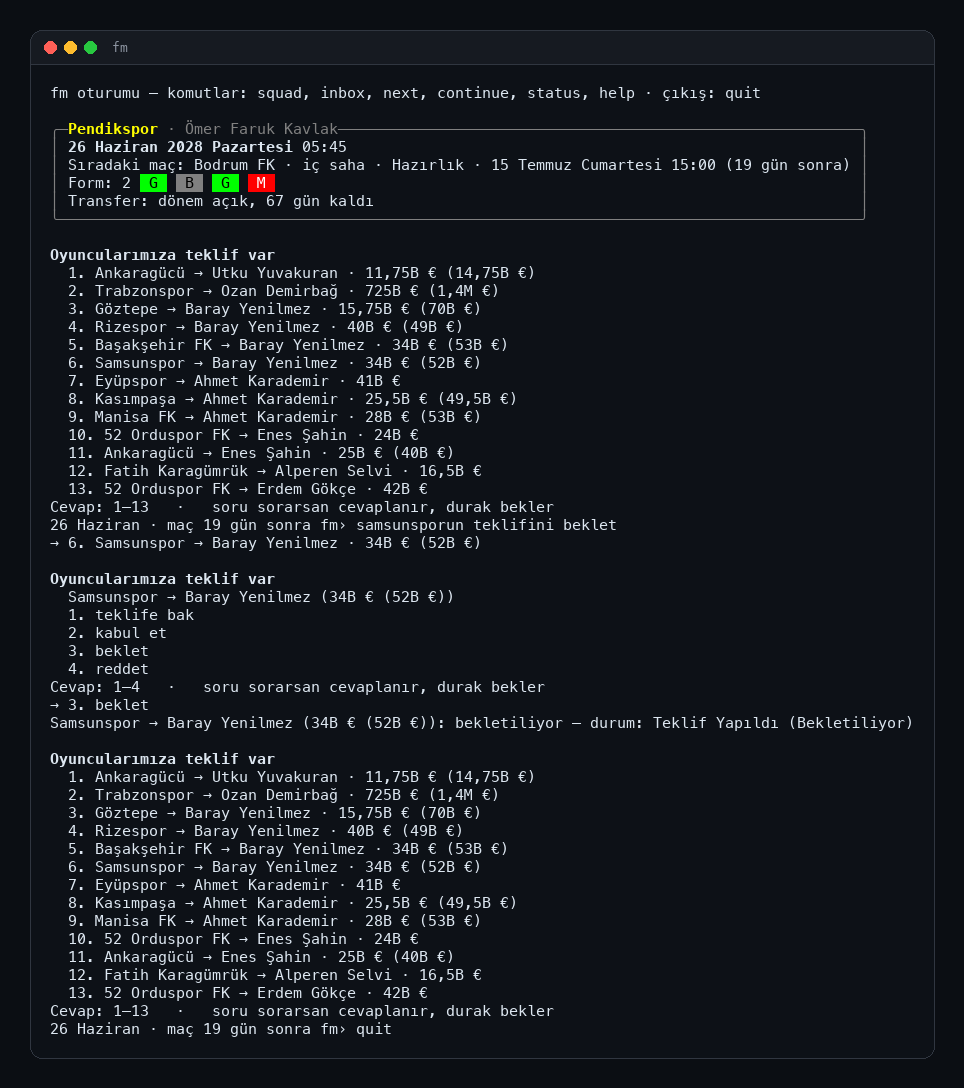
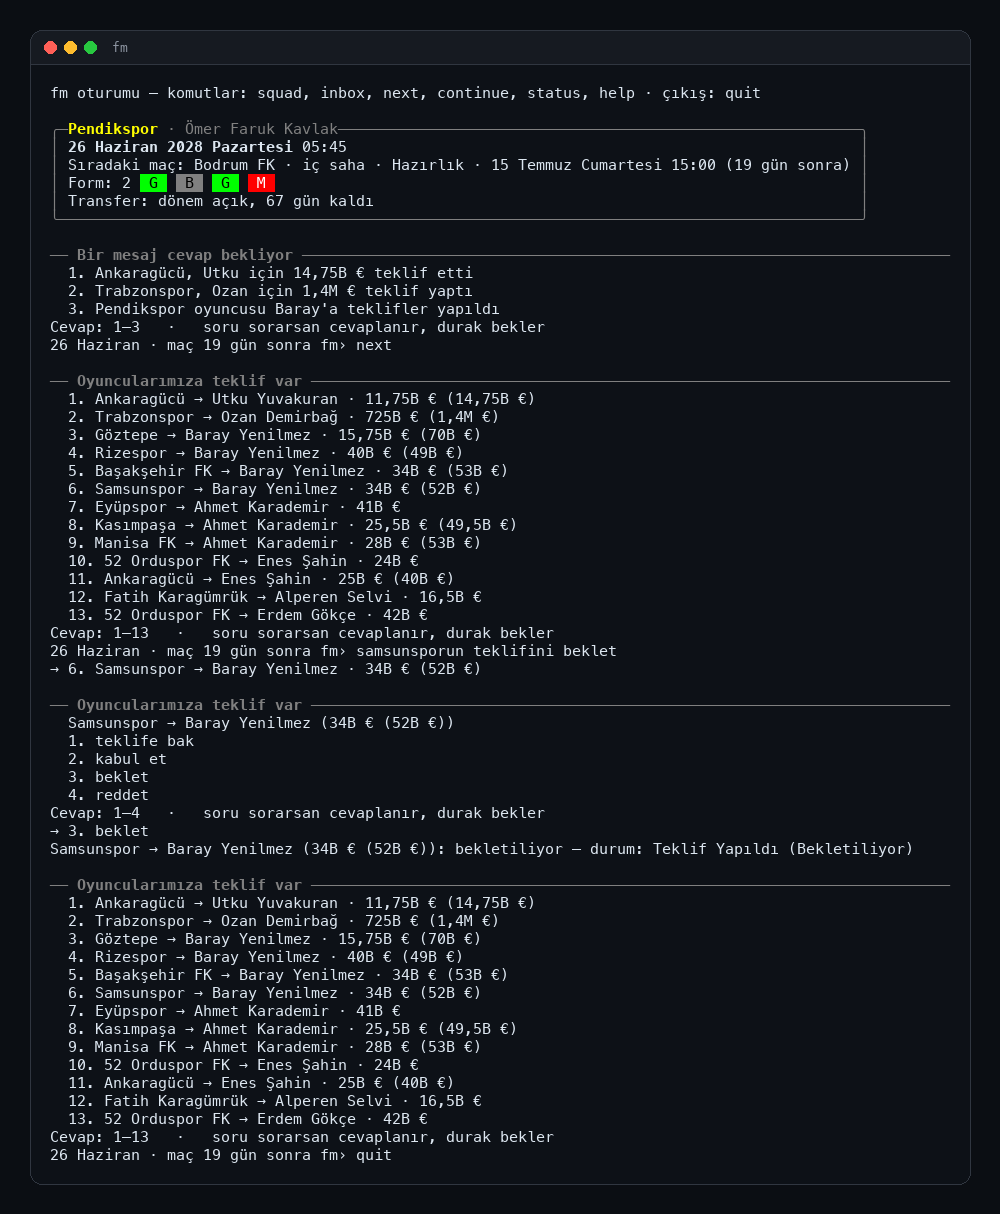
feat(session): each stop starts with a rule holding its name (T223)
What the last command printed and what now waits read as one block before; a grey rule with the
stop's kind (as the inbox heads its days) now starts each stop. Plain terminals keep the name alone.

diff --git a/cli/fm/Core/Stop.cs b/cli/fm/Core/Stop.cs
@@ -73,13 +73,16 @@ internal static partial class Program
 	};
 
 	/// <summary>
-	/// The session's way of saying a stop: its kind, what it is about, then its answers numbered, which a number
+	/// The session's way of saying a stop: a rule with its kind, what it is about, then its answers numbered, which a number
 	/// alone then picks (the pick list is the stop's until another list is shown).
 	/// </summary>
 	internal static void ShowStop(HeldStop stop)
 	{
 		Console.WriteLine();
-		if (Ui.Rich) Ui.Line($"[bold]{Ui.Safe(StopName(stop.Kind))}[/]");
+		// A rule with the stop's name: what the last command printed ends here, and what waits starts.
+		if (Ui.Rich)
+			Ui.Out.Write(new Spectre.Console.Rule($"[bold]{Ui.Safe(StopName(stop.Kind))}[/]")
+				{ Justification = Spectre.Console.Justify.Left, Style = new Spectre.Console.Style(Spectre.Console.Color.Grey) });
 		else Console.WriteLine(StopName(stop.Kind));
 		foreach (var about in stop.About) Console.WriteLine($"  {about}");
 		if (stop.Answers.Count == 0)

diff --git a/docs/AI.md b/docs/AI.md
@@ -93,7 +93,7 @@ Order (before T211–T213). New work is added in this file, by id.
   - [ ] Team talks and the tunnel interview in `match` are still picked with the arrows
 - [ ] T223 Readable output: find the outputs that read better as a table or with dividers, then do them in one round
   - [ ] Offer stop: 13 offers as one line each (`Club → Player · fee`); a table (club, player, fee, terms) reads better
-  - [ ] Session: after an answer the whole stop comes back in full; a divider between what ran and the stop
+  - [ ] Session: after an answer the whole stop comes back in full (a rule with the stop's name now starts each stop)
   - [ ] "Did you mean" at a stop: aligned columns (the router's list is done)
   - [ ] Sweep the other commands' output for the same (list in this box first, then do them)
 - [ ] T222 `offers <#> stall` once did not find the offer's row on the transfer activity page (TR, 1 of 12 tries, round84):
